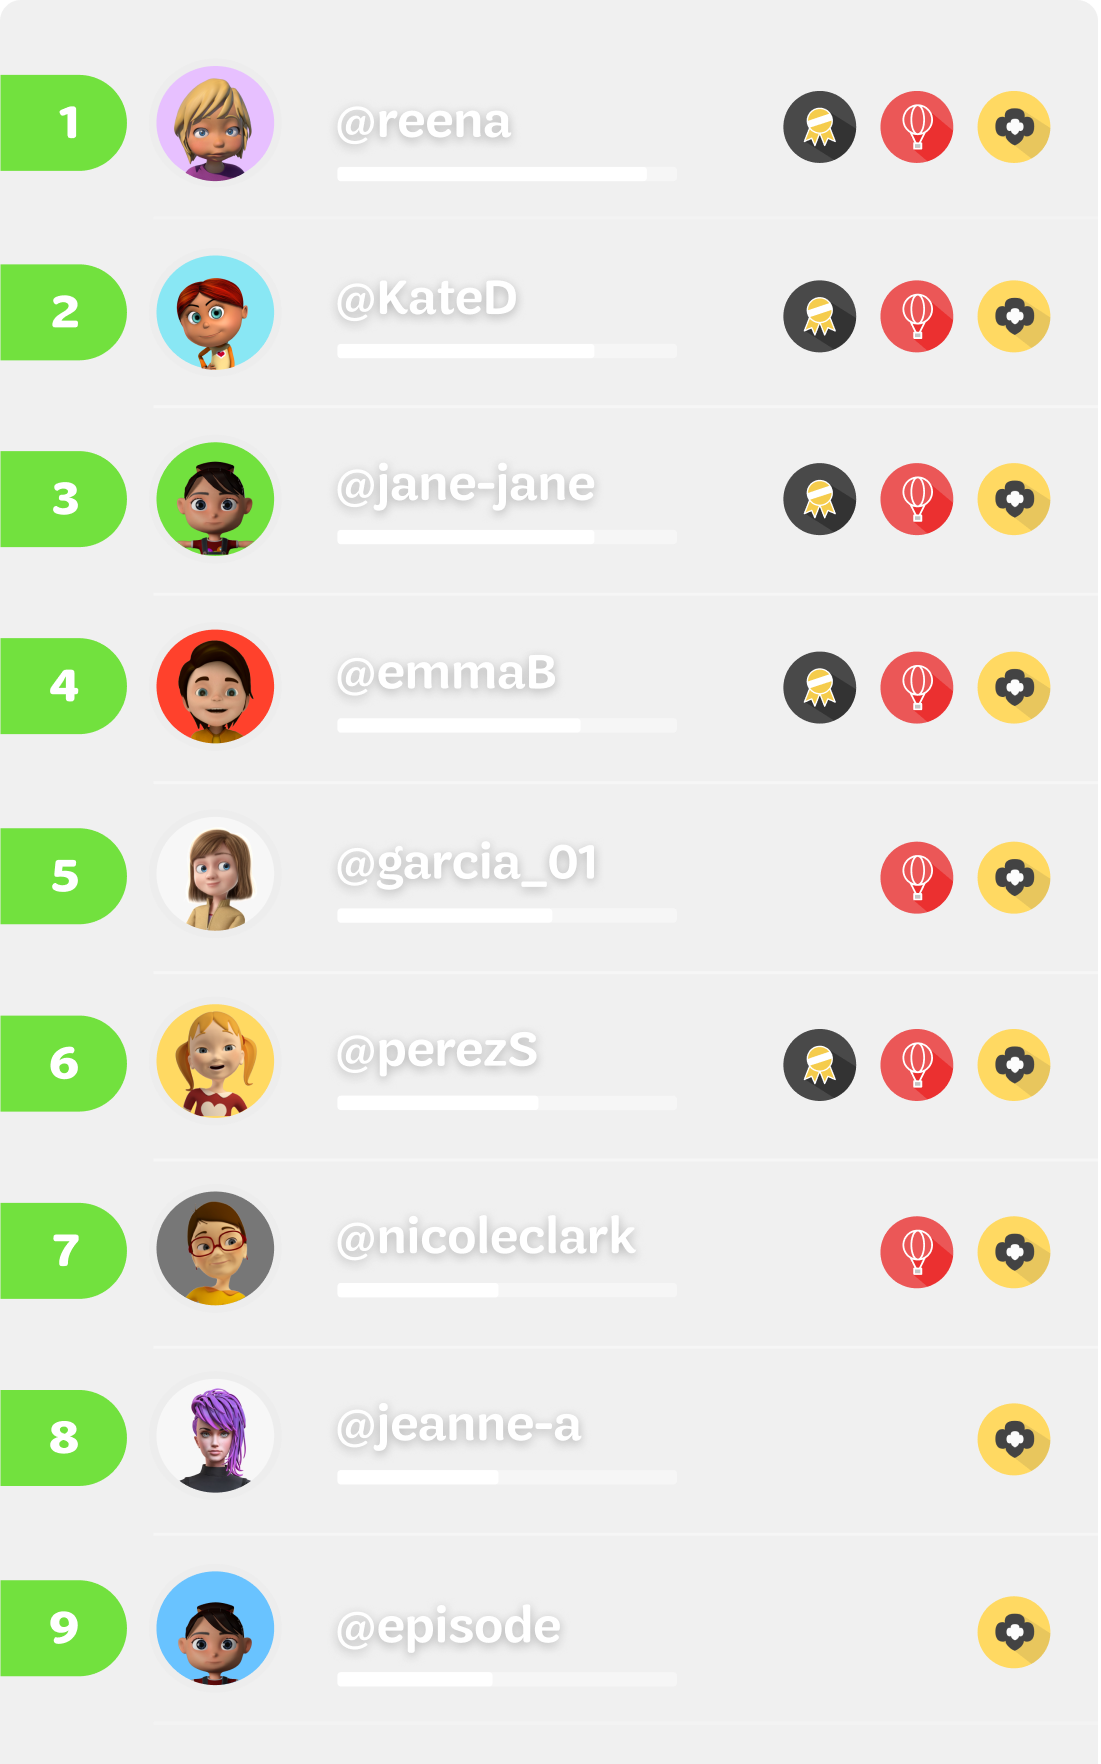
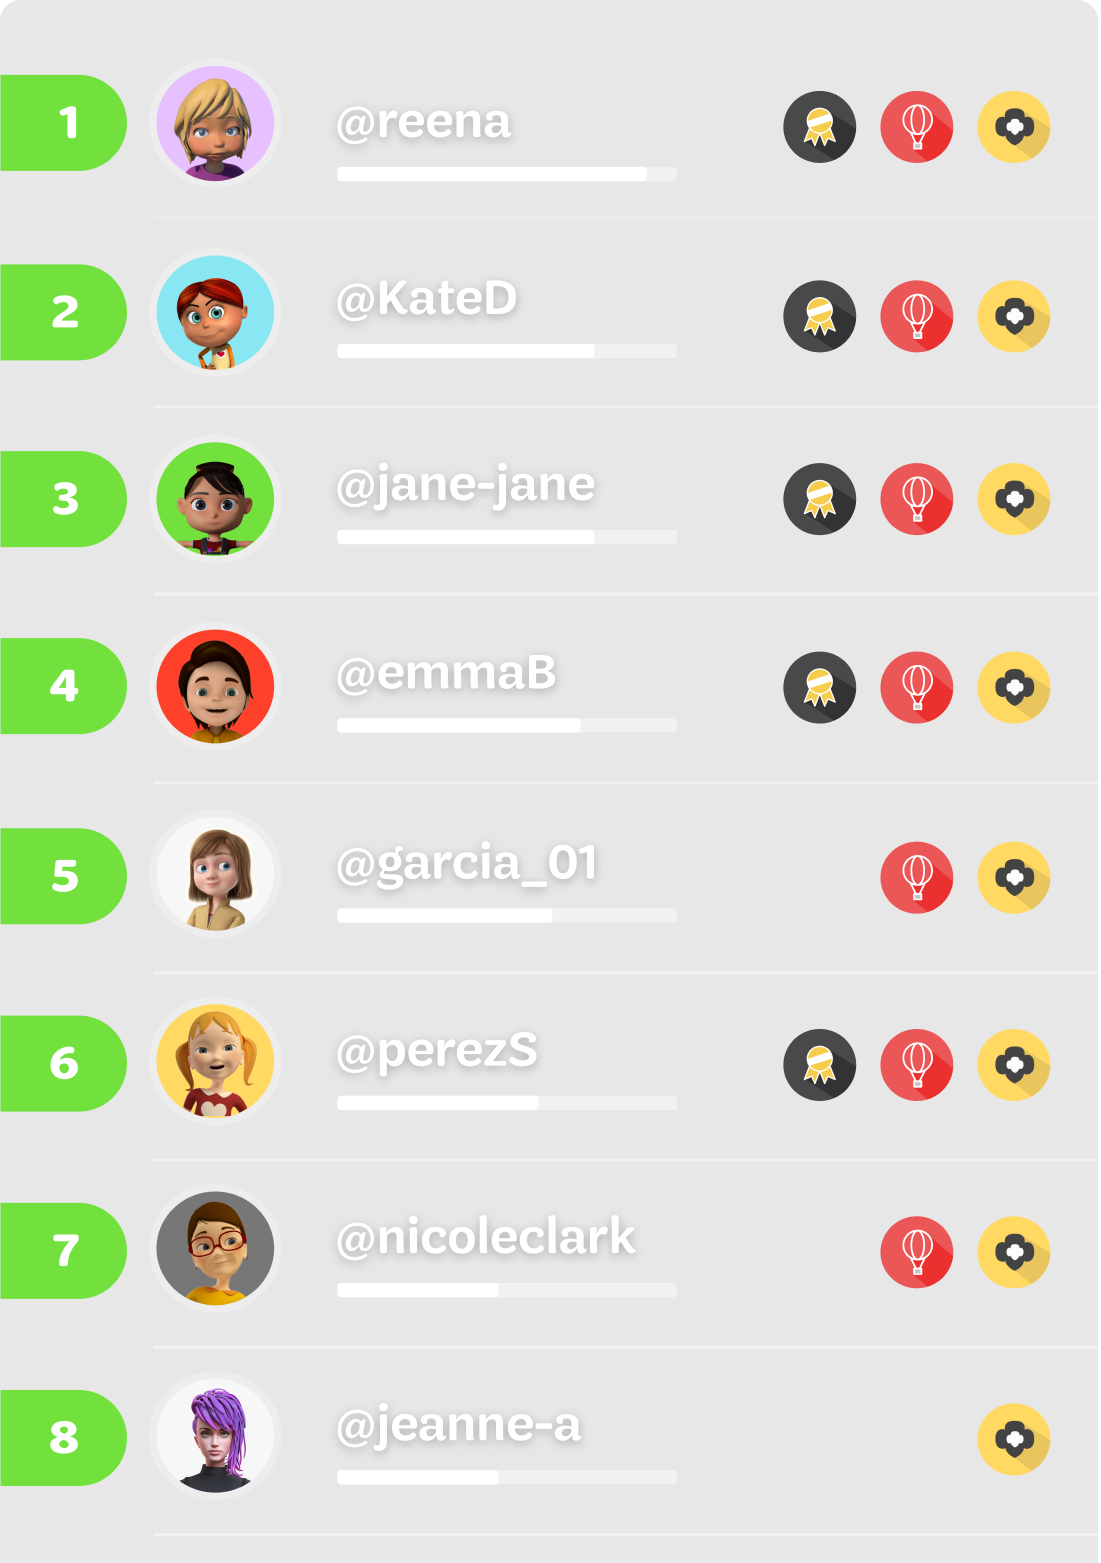
Leader board update

diff --git a/src/components/AvaBottomMenu.js b/src/components/AvaBottomMenu.js
@@ -4,7 +4,7 @@ import { StyleSheet, Text, View, TouchableOpacity,Image, Animated} from 'react-n
 const {width, height} = Dimensions.get('window');
 const heightResume = 560;
 const heightRelated = 147;
-const heightBoard = 570;
+const heightBoard = 521;
 const heightEvents = 400;
 
 // global style
